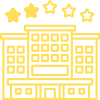
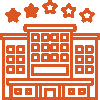
updates

diff --git a/js/main.js b/js/main.js
@@ -4,8 +4,8 @@
   {
     $scope.guestList =
       [
-        {name:"Elliot1",pw:"1",invites:["fr"]},
         {name:"Elliot2",pw:"2",invites:["ny"]},
+        {name:"Elliot1",pw:"1",invites:["fr"]},
         {name:"Elliot3",pw:"3",invites:["fr","ny"]},
         {name:"Elliot3",pw:"4",invites:["mtl"]},
       ];
@@ -193,13 +193,18 @@
           [
             {
               title:'THE VENUE',
-              text: "Our shindig will be held in Chestnut Ridge Park, at the Commissioner’s Cabin. Elliot has a special connection to the park, having been there countless times growing up; sledding and tobogganing in the winter, exploring the woods, and having BBQs in the summer. His grandfather supplied many of the trees that grow in the park from the family nursery business, Schichtel’s Nursery. Approximately 20 miles outside Buffalo, the cabin is deep in the woods in a secluded section of the park. In the fall, the park is especially beautiful, with the leaves changing color to vibrant shades of red, orange, and yellow. The lake outside the cabin has a short hiking trail around the perimeter for anyone wanting to explore! There will be parking on site, and we’ll also arrange transport between the venue and the hotel.",
+              text: "Our celebration will be held at the Commissioner’s Cabin in Chestnut Ridge Park, about 20 miles south of Buffalo. Elliot has a special connection to the park, as his grandfather supplied many of the trees from the family nursery business, Schichtel’s Nursery. The cabin itself is in a secluded woodland section of the park, which is especially beautiful in the fall; for anyone wanting to explore, there’s a lake just outside the cabin with a short hiking trail around the perimeter. Parking will be available on site, and we’ll also arrange transport between the venue and the hotel.",
               icon: 'img/cabin.png'
             },
             {
               title:'BUFFALO',
-              text:'Buffalo is the heart of western New York, and the second biggest city in the state (can you guess the first?). It was once an important trading hub along the Erie Canal, so a lot of the grand architecture and mansions remain from that time. These days, it has almost 50 craft breweries, a great restaurant scene, and, on top of being known as the birthplace of Buffalo wings, is famous for its pizza and ‘beef on weck’ sandwiches.',
+              text:"Buffalo is the second biggest city in New York state (no prizes for guessing the first), and is known as an iconic destination for fans of architecture due to its historical importance as a trading hub along the Erie Canal. These days, it has almost 50 craft breweries, a great restaurant scene, and, on top of being known as the birthplace of Buffalo wings, is famous for its pizza and ‘beef on weck’ sandwiches.",
               icon: 'img/buffalo.png'
+            },
+            {
+              title:'DRESS CODE',
+              text:"Smart-casual, or whatever makes you feel fabulous (bonus points for colour, sequins or cowboy boots).",
+              icon: 'img/cowboy.png'
             }
           ]
         },
@@ -209,7 +214,7 @@
             [
               {
                 title: 'planning your stay'.toUpperCase(),
-                text: 'For your stay over the wedding weekend, we’ve arranged a group rate at The Best Western which is a short walk from roller disco and the bar crawl route we have planned. We’ll also be arranging transport from there to the wedding venue at Chestnut Ridge.',
+                text: 'For your stay over the wedding weekend, we’ve arranged a group rate at The Best Western, which is a short walk from the roller disco and the bar crawl route we have planned. We’ll also be arranging transport from there to the cabin at Chestnut Ridge.',
                 icon: 'img/hotel.png'
               },
               {
@@ -225,7 +230,7 @@
             [
               {
                 title: 'Buffalo Botanical Gardens'.toUpperCase(),
-                text: 'Visit the Buffalo Botanical Gardens to see its diverse collection of plants and flowers. Elliot\'s father, the former head horticulturist, spent many years cultivating the gardens, and Elliot used to love playing hide and seek among its many nooks and crannies.',
+                text: 'The Buffalo Botanical Gardens has a beautiful and diverse collection of plants and flowers. Elliot\'s dad is the former head horticulturist, and spent many years cultivating the gardens.',
                 icon: 'img/plant.png'
               },
               {
@@ -235,7 +240,7 @@
               },
               {
                 title: 'Niagara Falls'.toUpperCase(),
-                text: 'One of the best things about Buffalo is its proximity to Niagara Falls, which you can get to in about 25 minutes. Although the American side may not have as much to offer, in our opinion, nothing compares to the experience of riding on the Maid of the Mist and getting a close-up view of the Falls. Crossing the Rainbow Bridge to the Canadian side of the falls is a breeze, and there you will find loads of fun attractions such as wax museums, haunted houses, a butterfly conservatory, and amusement rides. Additionally, the Canadian Niagara region is renowned for its wine production, with many vineyards offering tastings, especially of ice wine, a local delicacy.',
+                text: 'One of the best things about Buffalo is its proximity to Niagara Falls, which you can get to in about 25 minutes. For the best experience, we recommend riding on the Maid of the Mist and doing the Journey Behind the Falls to get a view from up close. Be warned, you get very wet! For another great view of the Falls, cross Rainbow Bridge to the Canadian side (this is a country border, so don’t forget your passport!). This side also has loads of fun attractions such as wax museums, haunted houses, a butterfly conservatory, and amusement rides. The Canadian Niagara region is renowned for its wine production and tastings, particularly ice wine, and is just over the border from Buffalo.',
                 icon: 'img/waterfall.png'
               }
             ]
@@ -248,30 +253,32 @@
                 title: 'The main event'.toUpperCase(),
                 text: 'We’d love for you to join us at a fun and relaxed gathering to celebrate our wedding. This is where we’ll exchange our rings and where our families will meet for the first time. It’ll also be Emily’s parents’ first time in the US! \n' +
                   '\n' +
-                  'Expect an informal and non-traditional event with laid-back food, craft beer, and picklebacks. Emily has a sweet tooth that was once described as “alarming”, so it was essential for us to have baked goods on hand all day. To make the most of the season, we’ll also have traditional cider mill fare such as apple cider doughnuts and pies. Our main aim is for everyone to socialize and have fun, so relax, eat s’mores and enjoy!\n',
+                  'We embrace the weird and wonderful, so expect an informal event with laid-back food, craft beer, and pickleback shots. Doing something more relaxed feels a lot more ‘us’ than a formal sit-down meal - we just want everyone to have fun!\n' +
+                  '\n' +
+                  'Emily also has a sweet tooth that was once described as “alarming”, so it was essential for us to have baked goods on hand all day; we’ll have traditional cider mill fare such as apple cider doughnuts and pies to make the most of the season. \n',
                 icon: 'img/chicken-wing.png'
               },
               {
                 title: 'Timeline'.toUpperCase(),
-                text: '1:00pm: Arrival of guests and live music by Elliot’s sister Natalie. Help yourselves to drinks and cookies!\n' +
+                text: '<b>1:00pm:</b> Arrival of guests and live music by Elliot’s sister Natalie. Help yourselves to drinks and cookies!\n' +
                   '\n' +
-                  '2:00pm: Exchanging of rings\n' +
+                  '<b>1:40pm:</b> Exchanging of rings\n' +
                   '\n' +
-                  '2:30pm: Live music and games\n' +
+                  '<b>2:00pm:</b> Live music and games\n' +
                   '\n' +
-                  '3:00pm: Pizza, wings and pierogies!\n' +
+                  '<b>2:30pm:</b> Food - We’re going all-out Buffalo with pizza, wings and pierogies\n' +
                   '\n' +
-                  '3:30pm: The Official Wedding Wing Eating Contest\n' +
+                  '<b>3:00pm:</b> Emily & Elliot’s Official Wing Eating Contest - what started as a joke, but is now all too real.\n' +
                   '\n' +
-                  '4:00pm: Speeches - We’re playing with fire here by welcoming anyone to grab the mic and be as out of the box as you’d like! Karaoke, impromptu performances and hidden talents are also strongly encouraged. \n' +
+                  '<b>3:30pm:</b> Speeches - We’re playing with fire here by welcoming anyone to grab the mic and be as out of the box as you’d like. Traditional speeches are welcomed, but karaoke, impromptu performances and hidden talents are also strongly encouraged. \n' +
                   '\n' +
-                  '5:00pm: Cutting our wedding pie\n' +
+                  '<b>4:00pm:</b> Cutting the cake\n' +
                   '\n' +
-                  '6:00pm: Shuttle back to Buffalo \n' +
+                  '<b>6:00pm:</b> Shuttle back to Buffalo \n' +
                   '\n' +
-                  '8:00pm: Roller disco at Buffalo Canalside - Skates will be provided and you’re welcome to change into something more comfortable beforehand. The skating rink is outside, so we recommend bringing a couple of warmer layers! \n' +
+                  '<b>8:00pm:</b> Roller disco at Buffalo Canalside - Skates will be provided and you’re welcome to change into something more comfortable beforehand. The skating rink is outside, so we recommend bringing a couple of warmer layers! \n' +
                   '\n' +
-                  '10:00pm: Begin the Buffalo Bar Crawl \n',
+                  '<b>10:00pm:</b> Begin the Buffalo Bar Crawl \n',
                 icon: 'img/timeline.png'
               }
             ]
@@ -329,10 +336,11 @@ $scope.getContent = function(event,section)
 
     let init = function()
     {
-      if(sessionStorage.getItem("guest"))
-      {
-        loginGuest(_.find($scope.guestList,{name:sessionStorage.getItem("guest")}))
-      }
+      loginGuest($scope.guestList[0])
+      // if(sessionStorage.getItem("guest"))
+      // {
+      //   loginGuest(_.find($scope.guestList,{name:sessionStorage.getItem("guest")}))
+      // }
     }
     init()
     $scope.selectedEvent = 'all'
@@ -424,9 +432,7 @@ $scope.getContent = function(event,section)
           right: "=",
           content: "=",
         },
-        link: function ($scope) {
-          console.log($scope.content)
-        }
+       
       }
     }).filter('newline', function($sce) {
     return function(text) {

diff --git a/index.html b/index.html
@@ -31,10 +31,10 @@
         <ul style="width: 100%;
 align-content: space-evenly;
 justify-content: space-evenly;" class="navbar-nav nav mr-auto mt-2 mt-lg-0">
-          <li  ng-repeat="item in tableOfContents[selectedEvent]" class="nav-item navbar-item fr-text-accent" > <a  class="nav-link fr-text-accent" href="#{{item}}-{{selectedEvent}}">{{item.toUpperCase()}}</a></li>
+          <li  ng-repeat="item in tableOfContents[selectedEvent]" class="nav-item navbar-item ny-text-accent" > <a  class="nav-link ny-text-accent" href="#{{item}}-{{selectedEvent}}">{{item.toUpperCase()}}</a></li>
           <li class="nav-item navbar-item">
             <a id="rsvp"
-              data-toggle="modal" data-target="#{{selectedEvent}}Form" style="font-family: wedding" class="nav-link fr-text-accent"  href="#">RSVP</a></li>
+              data-toggle="modal" data-target="#{{selectedEvent}}Form" style="font-family: dafont" class="nav-link ny-text-accent"  href="#">RSVP</a></li>
         </ul>
       </div>
     </nav>
@@ -48,7 +48,7 @@ justify-content: space-evenly;" class="navbar-nav nav mr-auto mt-2 mt-lg-0">
           <h1 class="event-header">NEW YORK</h1>
           <h1 class="event-header">OCTOBER 8 2023</h1>
           <!-- <img src="img/ny-logo-transparent.svg"> -->
-          <div ng-show="animate" class="event-icon" style="background:url('img/ny-logo-transparent.svg');"></div>
+          <div ng-show="animate" class="event-icon" style="background:url('img/ny-logo-transparent_new.svg');"></div>
         </div>
         <div ng-show="!animate" data-spy="scroll" data-target="#navbar" data-offset="0" class="details" ng-if="selectedEvent === 'ny'">
           <div class="event-item" style="padding-top: 125px"  id="About-ny" >
@@ -75,7 +75,7 @@ justify-content: space-evenly;" class="navbar-nav nav mr-auto mt-2 mt-lg-0">
               selected-event="'ny'"
               right="true"></event-item>
           </div>
-          <button type="button" data-toggle="modal" data-target="#nyForm" class="rsvp-button btn btn-primary btn-lg ny-secondary">RSVP</button>
+          <button type="button" data-toggle="modal" style="border:none" data-target="#nyForm" class="rsvp-button btn btn-primary btn-lg ny-secondary">RSVP</button>
 
         </div>
       </div>
@@ -194,7 +194,7 @@ justify-content: space-evenly;" class="navbar-nav nav mr-auto mt-2 mt-lg-0">
     <div class="modal-dialog" role="document">
       <div class="modal-content">
         <div class="modal-header">
-          <h5 class="modal-title" id="exampleModalLabelny">Welcome {{guest.name}}! RSVP to Buffalo</h5>
+          <h5 class="modal-title" id="exampleModalLabelny"></h5>
           <button type="button" class="close" data-dismiss="modal" aria-label="Close">
             <span aria-hidden="true">&times;</span>
           </button>
@@ -231,22 +231,25 @@ justify-content: space-evenly;" class="navbar-nav nav mr-auto mt-2 mt-lg-0">
 
 <script type="text/ng-template" id="eventItem.html">
   <div>
-    <h1 ng-if="selectedEvent === 'ny'"  class="section-header ny-text-secondary">{{content.section}}</h1>
+    <h1 ng-if="selectedEvent === 'ny'"  class="section-header ny-text-accent">{{content.section}}</h1>
     <h1 ng-if="selectedEvent === 'fr'"  class="section-header fr-text-accent">{{content.section}}</h1>
     <div ng-repeat="item in content.content" style="display: flex; flex-direction: column; padding: 20px 0"
          ng-style="{{right}} && {'align-items':'end'}">
-      <h4 ng-if="selectedEvent === 'ny'" class="event-item-header event-item-header-ny">{{item.title}}</h4>
+      <h4 ng-if="selectedEvent === 'ny'" class="event-item-header ny-text-accent event-item-header-ny">{{item.title}}</h4>
       <h4 ng-if="selectedEvent === 'fr'" class="event-item-header fr-text-accent event-item-header-fr">{{item.title}}</h4>
-      <div style="display: flex;flex-direction: row">
-        <div ng-if="!right">
-          <img src="{{item.icon}}">
+      <div style="display: flex;flex-direction: row;width:100%;">
+        <div>
+          <img ng-if="!right" src="{{item.icon}}">
+          <img ng-if="right" style="opacity:0;" src="{{item.icon}}">
         </div>
-        <p ng-if="selectedEvent === 'ny'" class="content-text" style="color: white;" ng-bind-html="item.text | newline"> </p>
+        <p ng-if="selectedEvent === 'ny'" class="content-text ny-text-secondary" ng-bind-html="item.text | newline"> </p>
         <p ng-if="selectedEvent === 'fr'" class="content-text fr-text-secondary" ng-bind-html="item.text | newline" > </p>
-        <div ng-if="right">
-          <img src="{{item.icon}}">
+        <div>
+          <img ng-if="right" src="{{item.icon}}">
+          <img ng-if="!right" style="opacity:0;" src="{{item.icon}}">
         </div>
       </div>
     </div>
   </div>
 </script>
+z

diff --git a/css/main.css b/css/main.css
@@ -73,17 +73,20 @@ p
   -ms-transition:all linear .65s;
   -o-transition:all linear .65s;
   transition:all linear .65s;
+    z-index: 2;
 }
 
 .animate-show.ng-hide-remove,
 .animate-hide.ng-hide-add.ng-hide-add-active {
   opacity: 0;
+    z-index: 2;
   display: block !important;
 }
 
 .animate-hide.ng-hide-add,
 .animate-show.ng-hide-remove.ng-hide-remove-active {
   opacity: 1;
+    z-index: 2;
   display: block !important;
 }
 
@@ -102,17 +105,21 @@ p
   transition: all 1.3s ease-in-out 0s;
   background-position: center!important;
   background-size: contain!important;
+    z-index: 2;
 }
 .event-icon:hover {
   transform: rotate(360deg);
   transition: all 1.3s ease-in-out 0s;
+    z-index: 2;
 }
 .content-text
 {
-  margin: auto;
   padding: 0 10px;
-  font-size: 1.1rem;
   text-align: justify;
+  font-size: 1.1rem;
+}
+.event-item-content-block{
+  width: 100px;
 }
 .section-header
 {
@@ -137,7 +144,7 @@ p
   height: 100%; color: white; display: flex;justify-content: flex-start;padding: 0px 10px;
 }
 
-
+/*
 .ny{
   background-color: #79b7ba;
 }
@@ -152,12 +159,13 @@ p
 .ny-secondary
 {
   background-color: #FFDE59 !important;
-}
+}*/
 
-.fr{
+.ny{
   background-color: #eccbbd;
+  cursor: pointer;
 }
-.fr-text
+.ny-text
 {
   color: #eccbbd !important;
 }
@@ -169,13 +177,13 @@ p
   display: flex !important;
 }
 
-.fr-text-secondary
+.ny-text-secondary
 {
-  color: #da5623 !important;
+  color: #da5623  !important;
 }
-.fr-secondary
+.ny-secondary
 {
-  background-color: #da5623 !important;
+  background-color: #E3B351 !important;
 }
 
 .mtl{
@@ -188,7 +196,7 @@ p
 
 .event-header
 {
-  z-index: 2;
+  z-index: 3;
   color: white;
   text-align: center;
   font-family: wedding;
@@ -211,7 +219,7 @@ p
 {
   color: #FFDE59;
 }
-.fr-text-accent
+.ny-text-accent
 {
   color: #E3B351 !important;
 }
@@ -285,7 +293,7 @@ p
   {
     padding-top: 20px;
   }
-  .fr.main-container
+  .ny.main-container
   {
     padding-bottom: 20px;
   }
